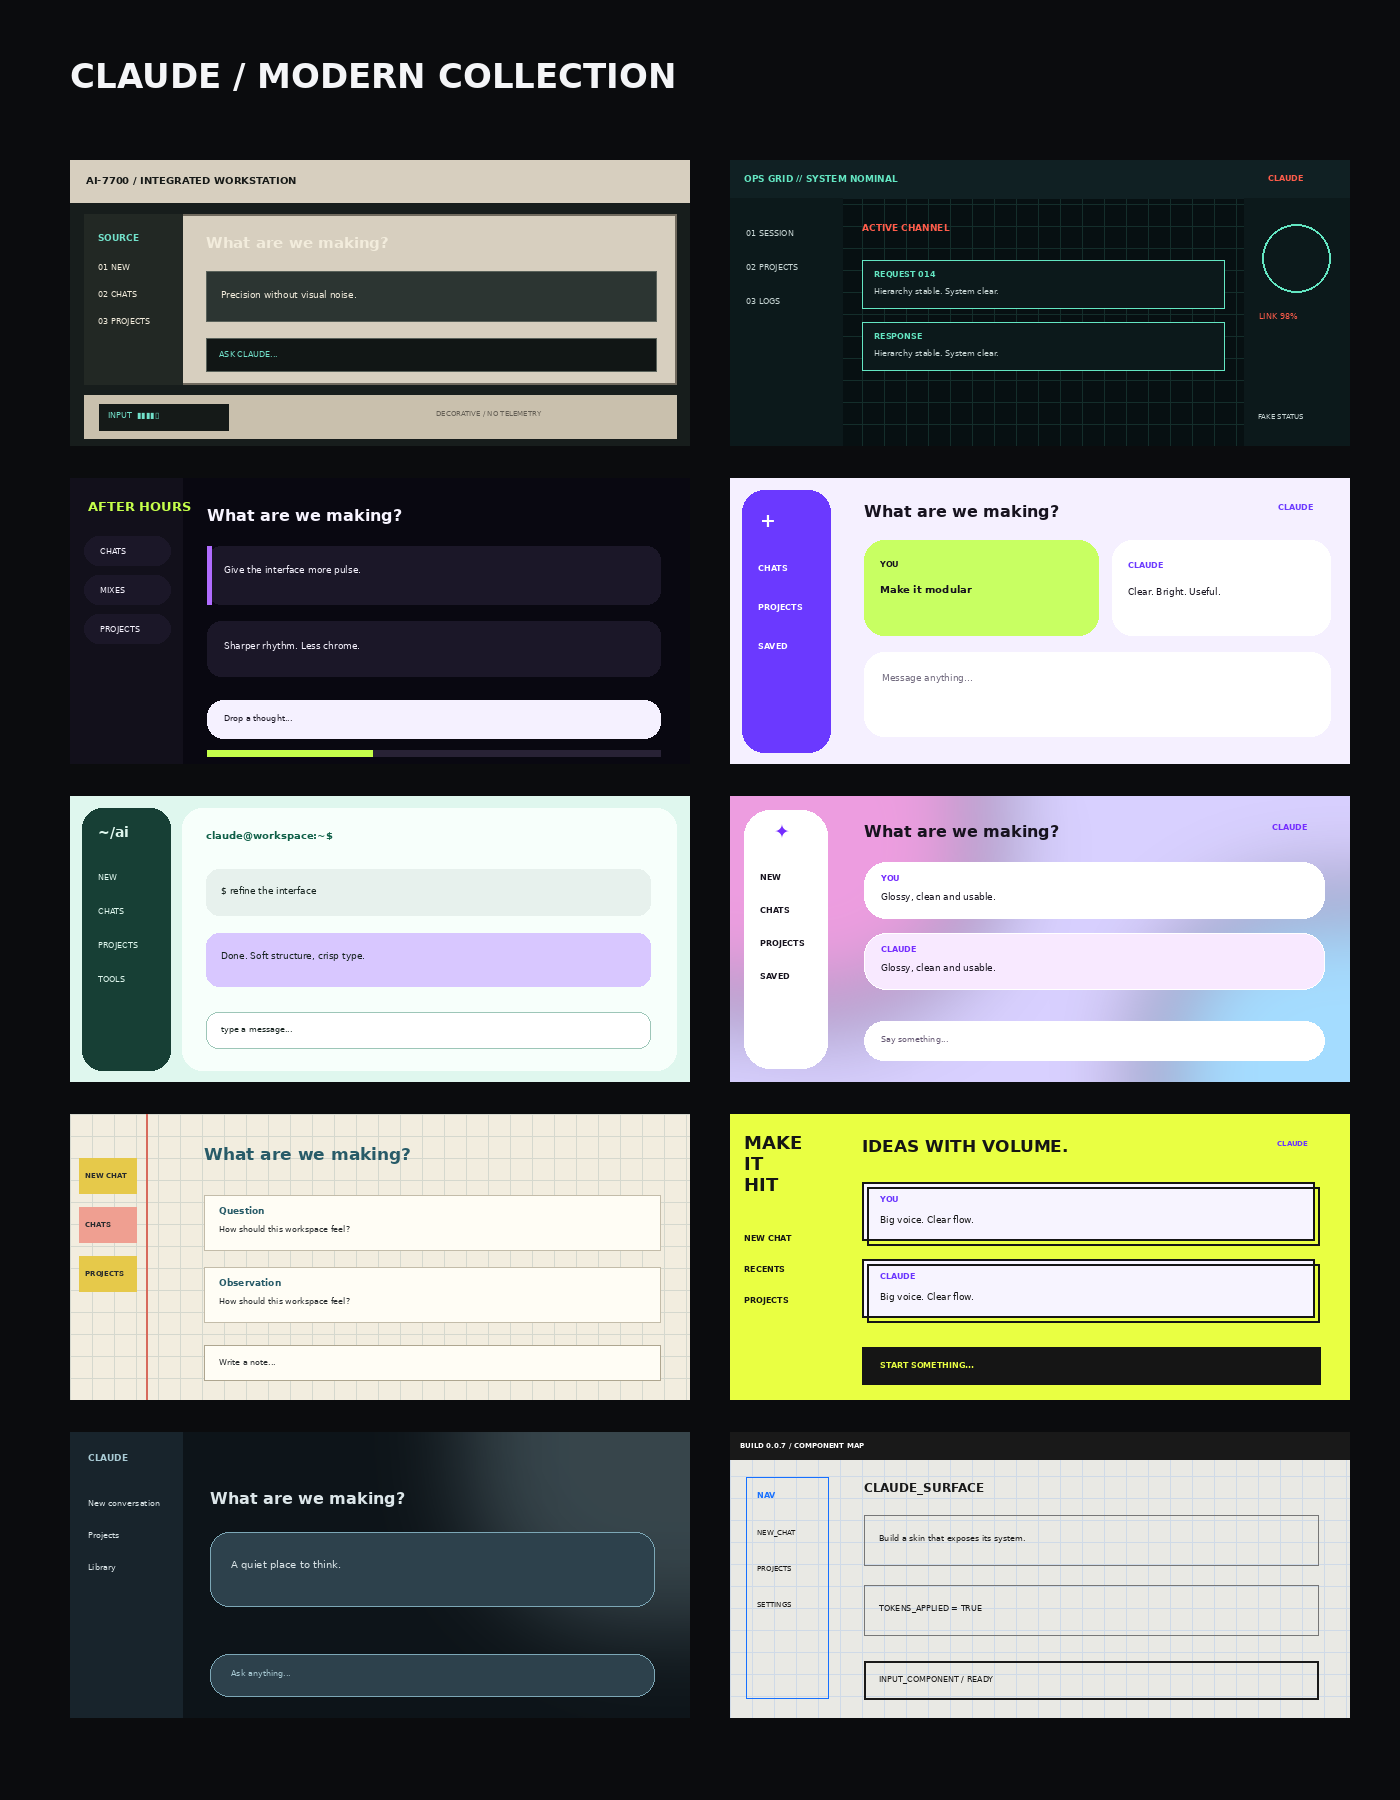
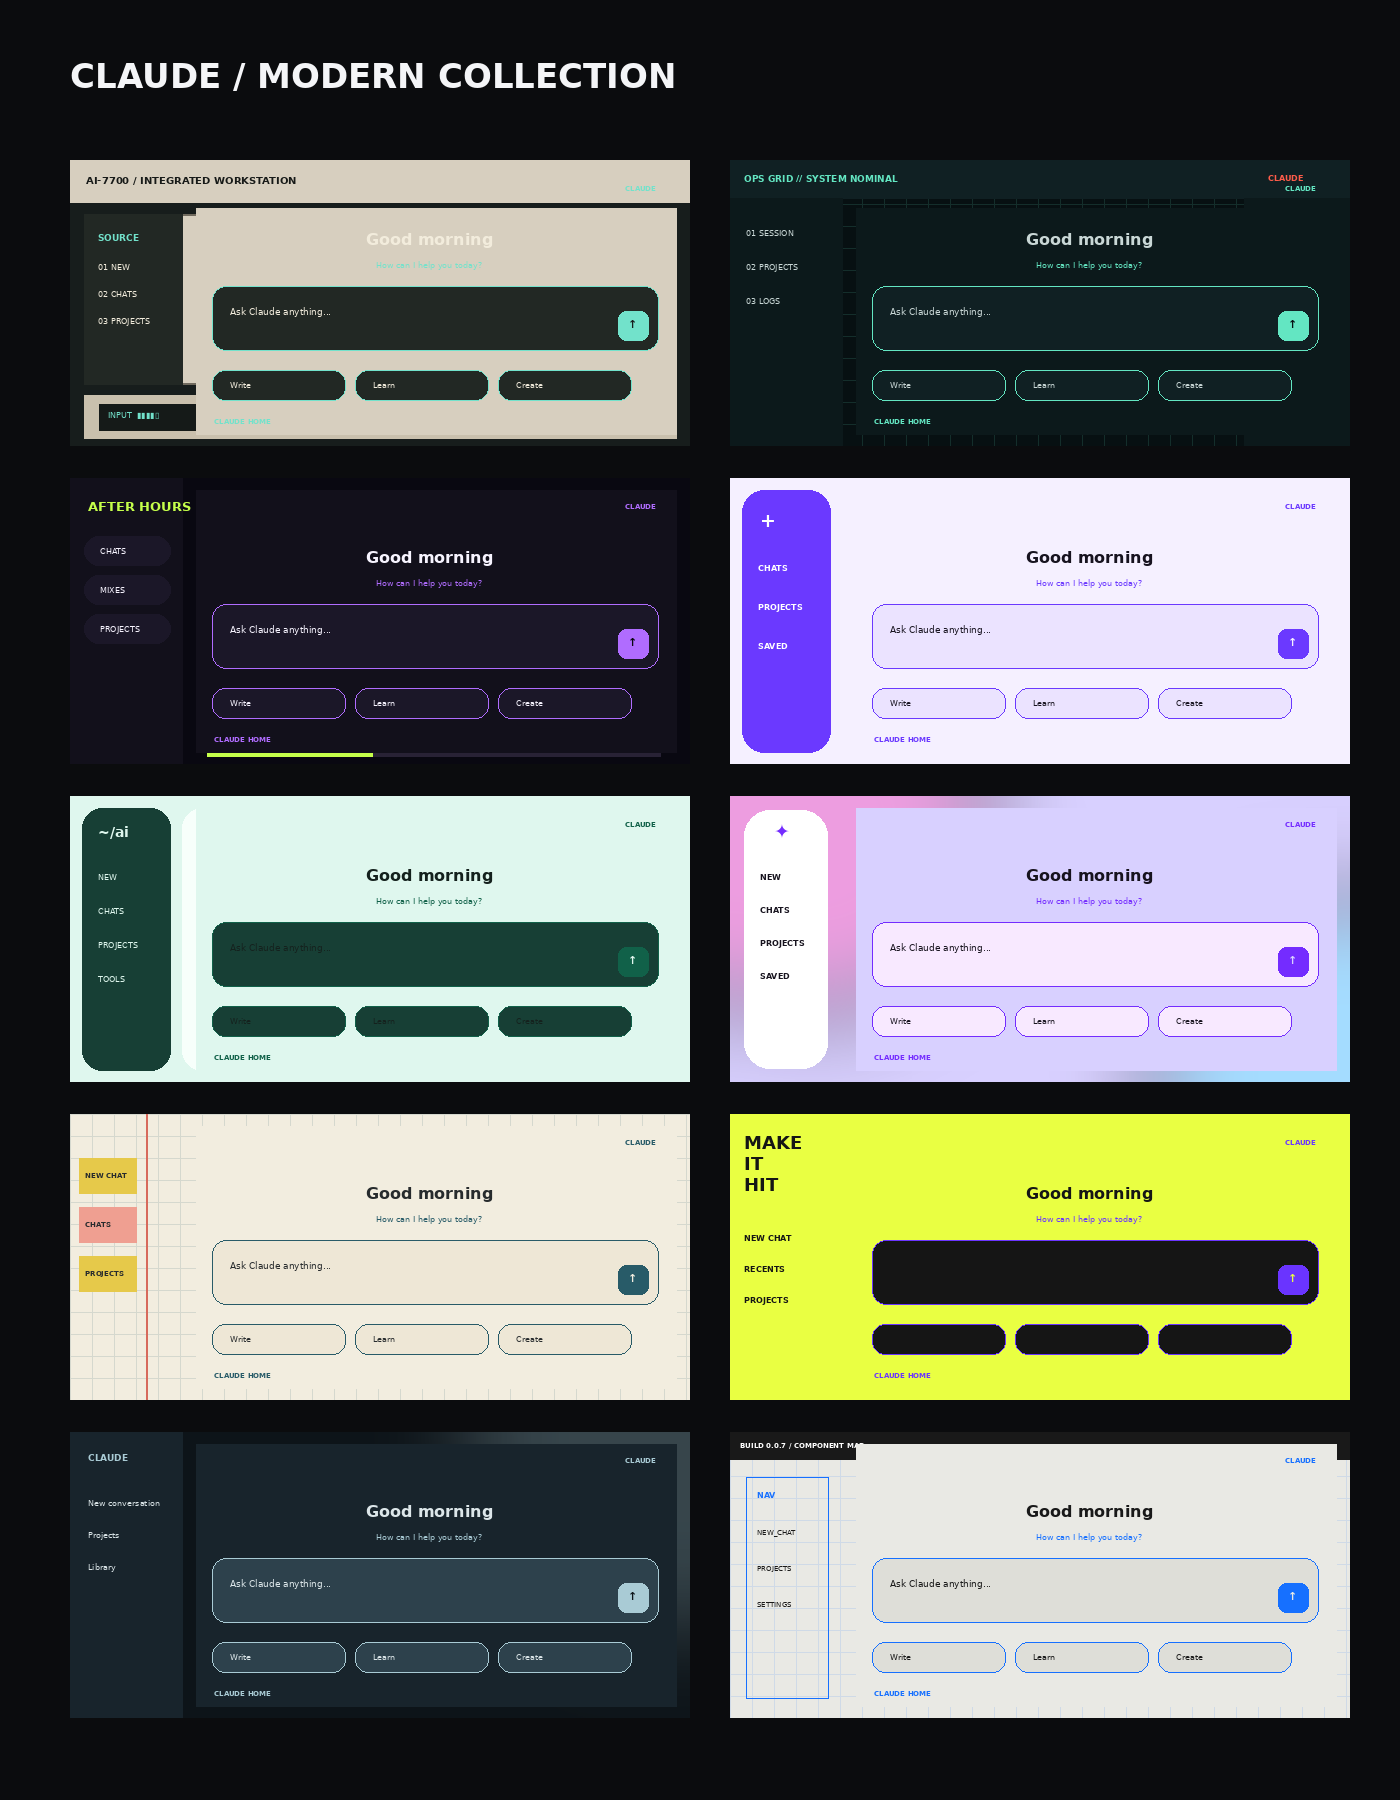
Improve showcase transitions and Claude layouts

diff --git a/scripts/build-showcase-gif.py b/scripts/build-showcase-gif.py
@@ -105,7 +105,7 @@ def app_panel(d, x, skin, claude=False):
     box = d.textbbox((0, 0), platform, font=font(11, True))
     d.text((x + (pw - (box[2] - box[0])) / 2, 518), platform, font=font(11, True), fill=accent)
 
-def frame(skin, position):
+def frame(skin, position, show_title=True):
     collection, name, bg, panel, panel2, text, muted, accent, line = skin
     im = Image.new("RGB", (W, H), bg)
     if collection.startswith("SIGNATURE"):
@@ -114,22 +114,24 @@ def frame(skin, position):
         im = Image.alpha_composite(im.convert("RGBA"), glow.filter(ImageFilter.GaussianBlur(75))).convert("RGB")
     d = ImageDraw.Draw(im)
     d.rectangle((0, 0, W, 56), fill=panel)
-    title_box = d.textbbox((0, 0), name, font=font(18, True))
-    d.text(((W - (title_box[2] - title_box[0])) / 2, 16), name, font=font(18, True), fill=text)
-    d.text((890, 22), f"{position:02d}/30", font=font(8, True), fill=muted)
+    if show_title:
+        title_box = d.textbbox((0, 0), name, font=font(18, True))
+        d.text(((W - (title_box[2] - title_box[0])) / 2, 16), name, font=font(18, True), fill=text)
+        d.text((890, 22), f"{position:02d}/30", font=font(8, True), fill=muted)
     app_panel(d, 12, skin)
     app_panel(d, 492, skin, claude=True)
     d.rectangle((478, 56, 482, H), fill=accent)
     return im
 
-def modern_frame(skin, position):
+def modern_frame(skin, position, show_title=True):
     name, _layout, bg, panel, _panel2, text, accent, _accent2 = skin
     im = Image.new("RGB", (W, H), bg)
     d = ImageDraw.Draw(im)
     d.rectangle((0, 0, W, 56), fill=panel)
-    title_box = d.textbbox((0, 0), name, font=font(18, True))
-    d.text(((W - (title_box[2] - title_box[0])) / 2, 16), name, font=font(18, True), fill=text)
-    d.text((890, 22), f"{position:02d}/30", font=font(8, True), fill=accent)
+    if show_title:
+        title_box = d.textbbox((0, 0), name, font=font(18, True))
+        d.text(((W - (title_box[2] - title_box[0])) / 2, 16), name, font=font(18, True), fill=text)
+        d.text((890, 22), f"{position:02d}/30", font=font(8, True), fill=accent)
     left = modern_tile(skin, "chatgpt").resize((456, 350), Image.Resampling.LANCZOS)
     right = modern_tile(skin, "claude").resize((456, 350), Image.Resampling.LANCZOS)
     im.paste(left, (12, 78))
@@ -143,21 +145,38 @@ def modern_frame(skin, position):
     return im
 
 by_name = {skin[1]: skin for skin in SKINS}
-keyframes = [(modern_frame(modern_by_name[name], index + 1) if name in modern_by_name else frame(by_name[name], index + 1)).resize(OUTPUT_SIZE, Image.Resampling.LANCZOS) for index, name in enumerate(SEQUENCE)]
+def render_named(name, position, show_title):
+    source = modern_frame(modern_by_name[name], position, show_title) if name in modern_by_name else frame(by_name[name], position, show_title)
+    return source.resize(OUTPUT_SIZE, Image.Resampling.LANCZOS)
+
+keyframes = [render_named(name, index + 1, True) for index, name in enumerate(SEQUENCE)]
+titleless = [render_named(name, index + 1, False) for index, name in enumerate(SEQUENCE)]
 palette_strip = Image.new("RGB", (240, 135 * len(keyframes)))
 for index, image in enumerate(keyframes):
     palette_strip.paste(image.resize((240, 135), Image.Resampling.BILINEAR), (0, index * 135))
 shared_palette = palette_strip.quantize(colors=160, method=Image.Quantize.MEDIANCUT)
 frames, durations = [], []
 for index, current in enumerate(keyframes):
+    current_plain = titleless[index]
+    following_plain = titleless[(index + 1) % len(titleless)]
     following = keyframes[(index + 1) % len(keyframes)]
     frames.append(current.quantize(palette=shared_palette, dither=Image.Dither.NONE))
     durations.append(2600)
-    for step in range(1, 13):
-        amount = step / 13
+    for step in range(1, 6):
+        amount = step / 5
         eased = amount * amount * (3 - 2 * amount)
-        frames.append(Image.blend(current, following, eased).quantize(palette=shared_palette, dither=Image.Dither.NONE))
+        frames.append(Image.blend(current, current_plain, eased).quantize(palette=shared_palette, dither=Image.Dither.NONE))
+        durations.append(70)
+    for step in range(1, 11):
+        amount = step / 10
+        eased = amount * amount * (3 - 2 * amount)
+        frames.append(Image.blend(current_plain, following_plain, eased).quantize(palette=shared_palette, dither=Image.Dither.NONE))
         durations.append(85)
+    for step in range(1, 6):
+        amount = step / 5
+        eased = amount * amount * (3 - 2 * amount)
+        frames.append(Image.blend(following_plain, following, eased).quantize(palette=shared_palette, dither=Image.Dither.NONE))
+        durations.append(70)
 
 frames[0].save(OUTPUT, save_all=True, append_images=frames[1:], duration=durations, loop=0, optimize=True, disposal=1)
 print(OUTPUT)

diff --git a/scripts/build-collection-sheets.py b/scripts/build-collection-sheets.py
@@ -200,6 +200,30 @@ def modern_tile(skin, platform="chatgpt"):
         for y,copy in ((83,"Build a skin that exposes its system."),(153,"TOKENS_APPLIED = TRUE")):
             d.rectangle((rail+22,y,588,y+50),outline="#777777"); d.text((rail+37,y+18),copy,font=font(8),fill=text)
         d.rectangle((rail+22,229,588,267),outline=text,width=2); d.text((rail+37,242),"INPUT_COMPONENT / READY",font=font(8),fill=text)
+    if claude:
+        # Preserve each skin's shell, then give Claude its own recognizable home composition.
+        surface = panel if layout not in ("bento", "terminal", "candy", "notes", "street", "prototype") else bg
+        left = rail + 14
+        top = 48 if layout in ("hifi", "control") else 12
+        d.rectangle((left, top, 606, 274), fill=surface)
+        d.text((555, 24), "CLAUDE", font=font(7, True), fill=accent)
+        greeting = "Good morning"
+        box = d.textbbox((0, 0), greeting, font=font(16, True))
+        d.text((left + (592-left-(box[2]-box[0]))/2, 70), greeting, font=font(16, True), fill=text)
+        prompt = "How can I help you today?"
+        box = d.textbbox((0, 0), prompt, font=font(8))
+        d.text((left + (592-left-(box[2]-box[0]))/2, 100), prompt, font=font(8), fill=accent)
+        d.rounded_rectangle((left+16, 126, 588, 190), radius=14, fill=panel2, outline=accent)
+        d.text((left+34, 146), "Ask Claude anything...", font=font(9), fill=text)
+        d.rounded_rectangle((548, 151, 578, 180), radius=8, fill=accent)
+        d.text((558, 157), "↑", font=font(11, True), fill=bg)
+        labels = ("Write", "Learn", "Create")
+        chip_w = max(70, (556-left)//3)
+        for i, label in enumerate(labels):
+            x = left + 16 + i * chip_w
+            d.rounded_rectangle((x, 210, x+chip_w-10, 240), radius=13, fill=panel2, outline=accent)
+            d.text((x+18, 220), label, font=font(8), fill=text)
+        d.text((left+18, 257), "CLAUDE HOME", font=font(7, True), fill=accent)
     return im
 
 def sheet(title, skins, filename, signature=False, platform="chatgpt"):
